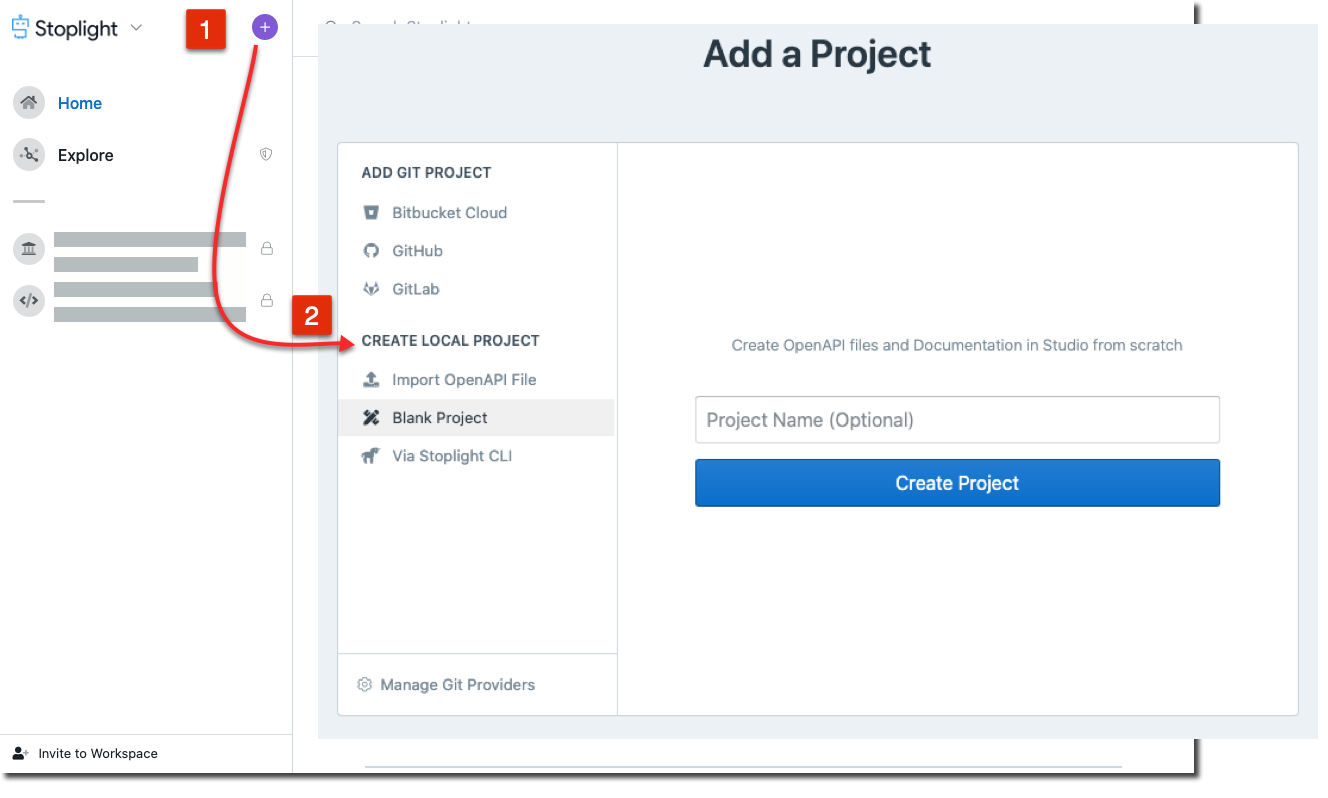
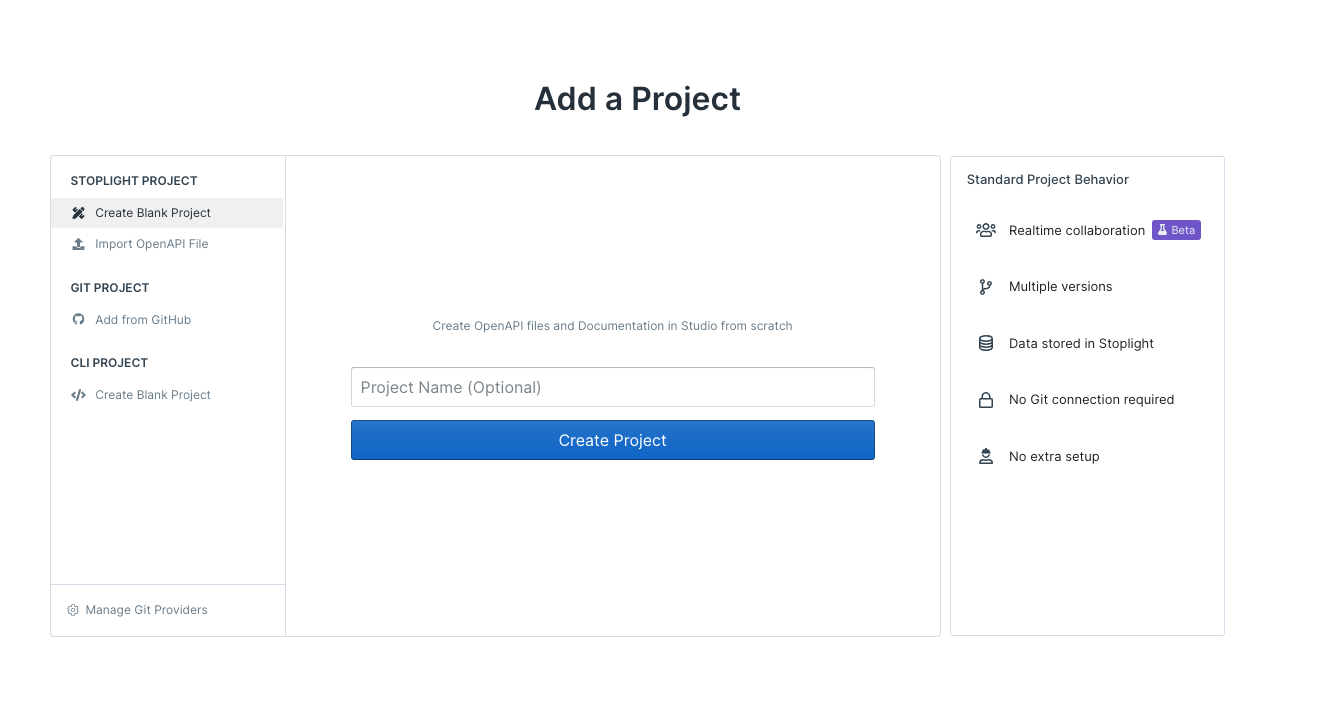
Modified 5 files

diff --git a/1.-quickstarts/add-projects-quickstart.md b/1.-quickstarts/add-projects-quickstart.md
@@ -26,15 +26,7 @@ Next, lets [share this project](share-documentation-quickstart.md).
 
 ## Creating a Blank Project
 
-If you don't have your API artifacts, like OpenAPI or JSON Schema, on a Git repository or want to get started with creating a new one, you can get started directly from Studio by selecting the **+** on the top left of the screen, and then clicking an option under **Create Local Project**.
-
-<!-- theme: danger -->
-
-> ### Warning!
->
-> Projects *not connected* to a Git repository will **only be editable on your current browser session**. This means that you could potentially lose the ability to edit your project should you lose your session data.
-> 
-> If you either need to edit your content on multiple browsers or collaborate with others, it is strongly recommended that you use the "**Connecting a Git Repo**" option listed above.
+If you don't have your API artifacts, like OpenAPI or JSON Schema, in a Git repository or want to get started with creating a new one, you can get started directly from Studio by selecting the **+** on the top left of the screen, and then clicking an option under **Create Stoplight Project**.
 
 ![start a new project](../assets/images/add_local_project.png)
 
@@ -44,37 +36,14 @@ From within Studio - Click **+** at the top of the screen and then "Import File"
 
 ![import existing file](../assets/images/import_files.png)
 
-### Promoting to Git
-
-To start sharing this project, you can promote it to a new Git repository. This will create a new private Git repository under your VCS of choice and push the newly-created content to it.
-
-![promote-to-git](../assets/images/git_promote.png)
-
-Click the **Push** icon, and then click **Promote to Git Repo** to use this option.
-
-Once done, choose your desired Git provider, organization, repo name, and then click **Create Git Repository**.
-
-<!-- theme: warning -->
-
-> After making change within Studio please ensure you push the changes to avoid any work being lost. Click **Push** and follow prompts to do this.
-> ![commit-to-git](../assets/images/git_commit.png)
-
-Next, lets [share this project](share-documentation-quickstart.md). 
-
 ### Push to Workspace
 
-If you don't want to push this content to a Git repo, you can push it to the workspace to start sharing it immediately.
-
-<!-- theme: danger -->
-
-> ### Warning!
->
-> Projects *not connected* to a Git repository will **only be editable on your current browser session**. This means that you could potentially lose the ability to edit your project should you lose your session data.
-> 
-> If you either need to edit your content on multiple browsers or collaborate with others, it is strongly recommended that you use the "**Connecting a Git Repo**" option listed above.
+Once you're done making changes, you can click the "Push to Workspace" button to save your changes to Stoplight.
 
 ![push-to-workspace](../assets/images/push_to_workspace.png)
 
-Give it a useful name. Click **Push**, then click **Push to workspace**. 
+### Share
 
-Next, lets [share this project](share-documentation-quickstart.md). 
+Finally, click the **Share** button in the top right to [share this project](share-documentation-quickstart.md) with your teammates. 
+
+![share](../assets/images/studio-share-button.png)
